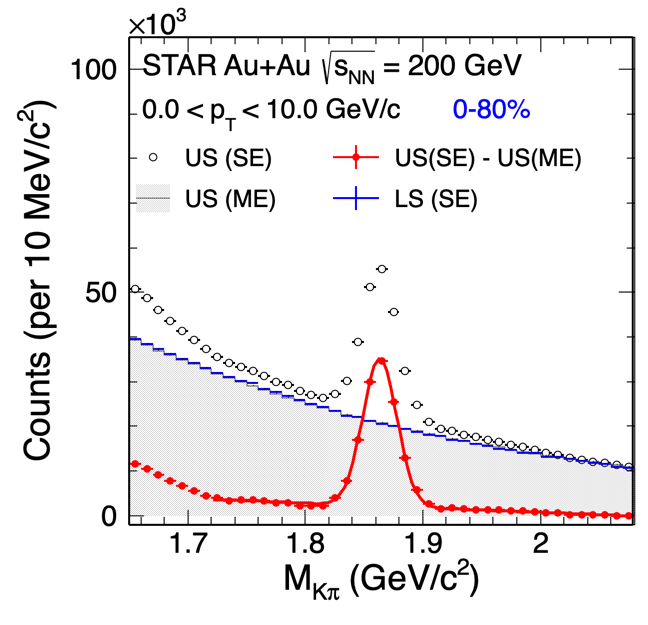
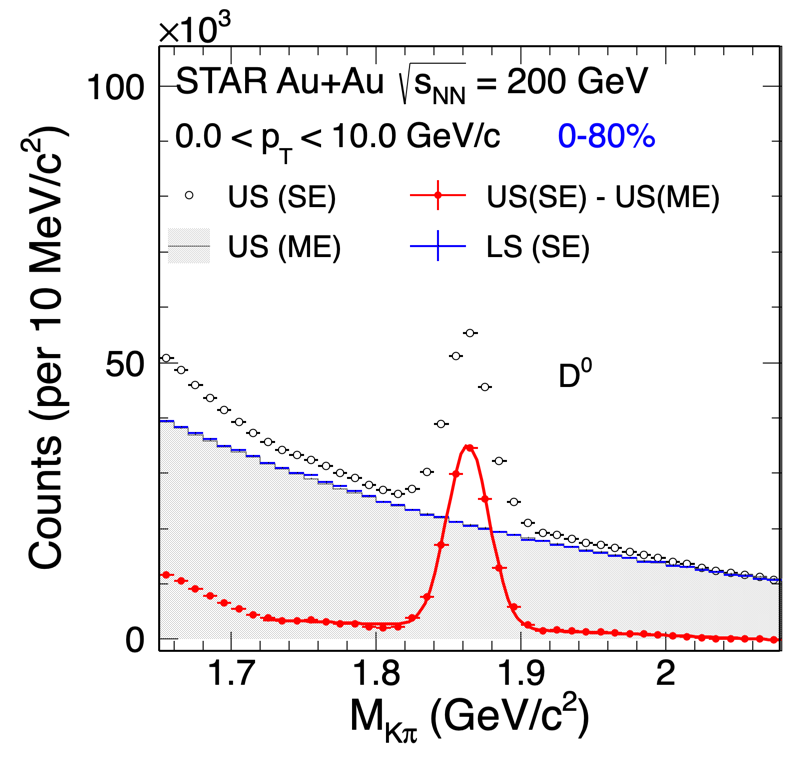
update macro

diff --git a/figures/plot_signal_1panels.C b/figures/plot_signal_1panels.C
@@ -42,7 +42,7 @@ void plot_signal_1panels()
 
    //fit and plot
    // TCanvas *c1 = new TCanvas("c1", "c1", 10, 10, 1100/3.*1.3, 450*1.3);
-   TCanvas *c1 = new TCanvas("c1", "c1", 10, 10, 650, 650);
+   TCanvas *c1 = new TCanvas("c1", "c1", 10, 10, 800, 800);
    gStyle->SetOptFit(0);
    gStyle->SetOptStat(0);
    gStyle->SetEndErrorSize(0.01);
@@ -215,7 +215,7 @@ void plot_signal_1panels()
       if (i == 0) drawLatex(0.22, 0.81, Form("%.1f < p_{T} < %.1f GeV/c", pt1[i], pt2[i]), 42, 0.047, 1);
 
       drawLatex(0.70, 0.81, Form("%s", nameCent[i]), 42, 0.047, 4);
-      // drawLatex(0.70, 0.50, Form("D^{0}"), 42, 0.065, 1);
+      drawLatex(0.70, 0.50, Form("D^{0}"), 42, 0.045, 1);
 
       // if (i == 1)
       {
